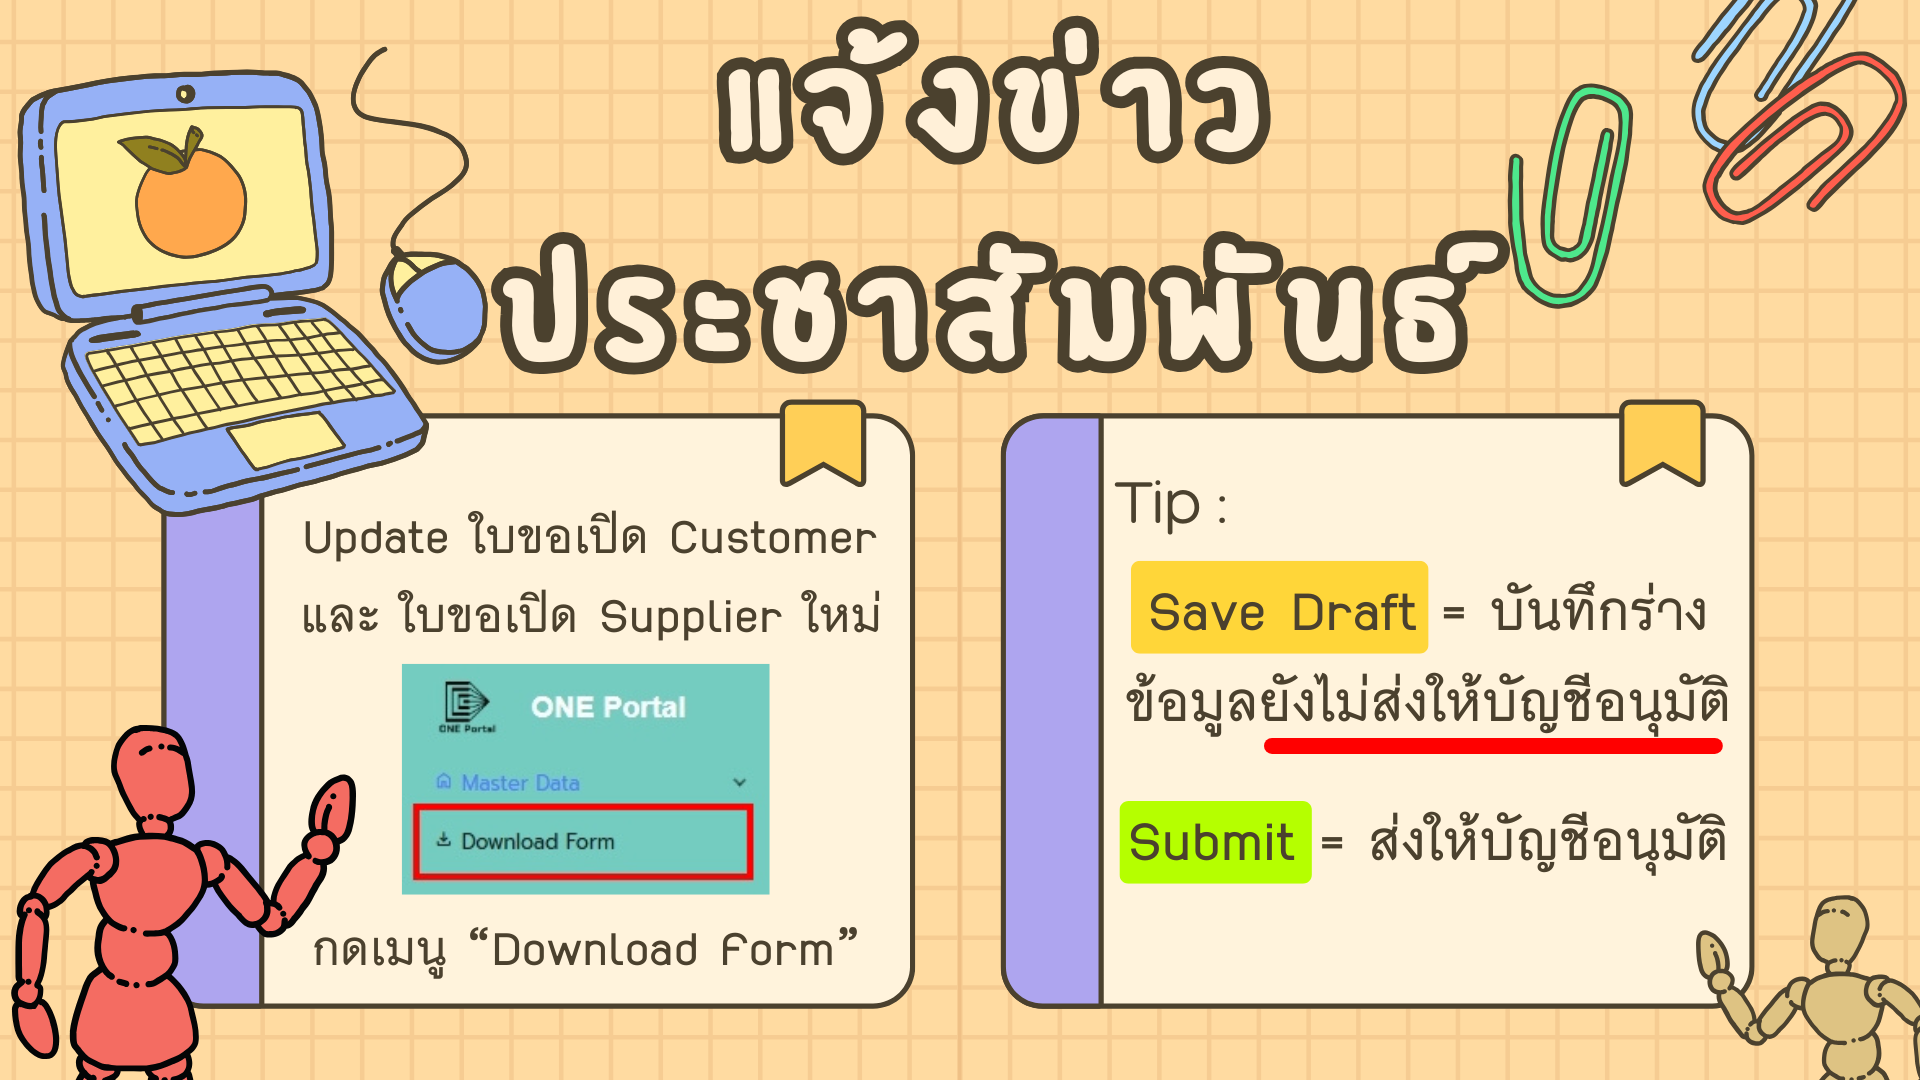
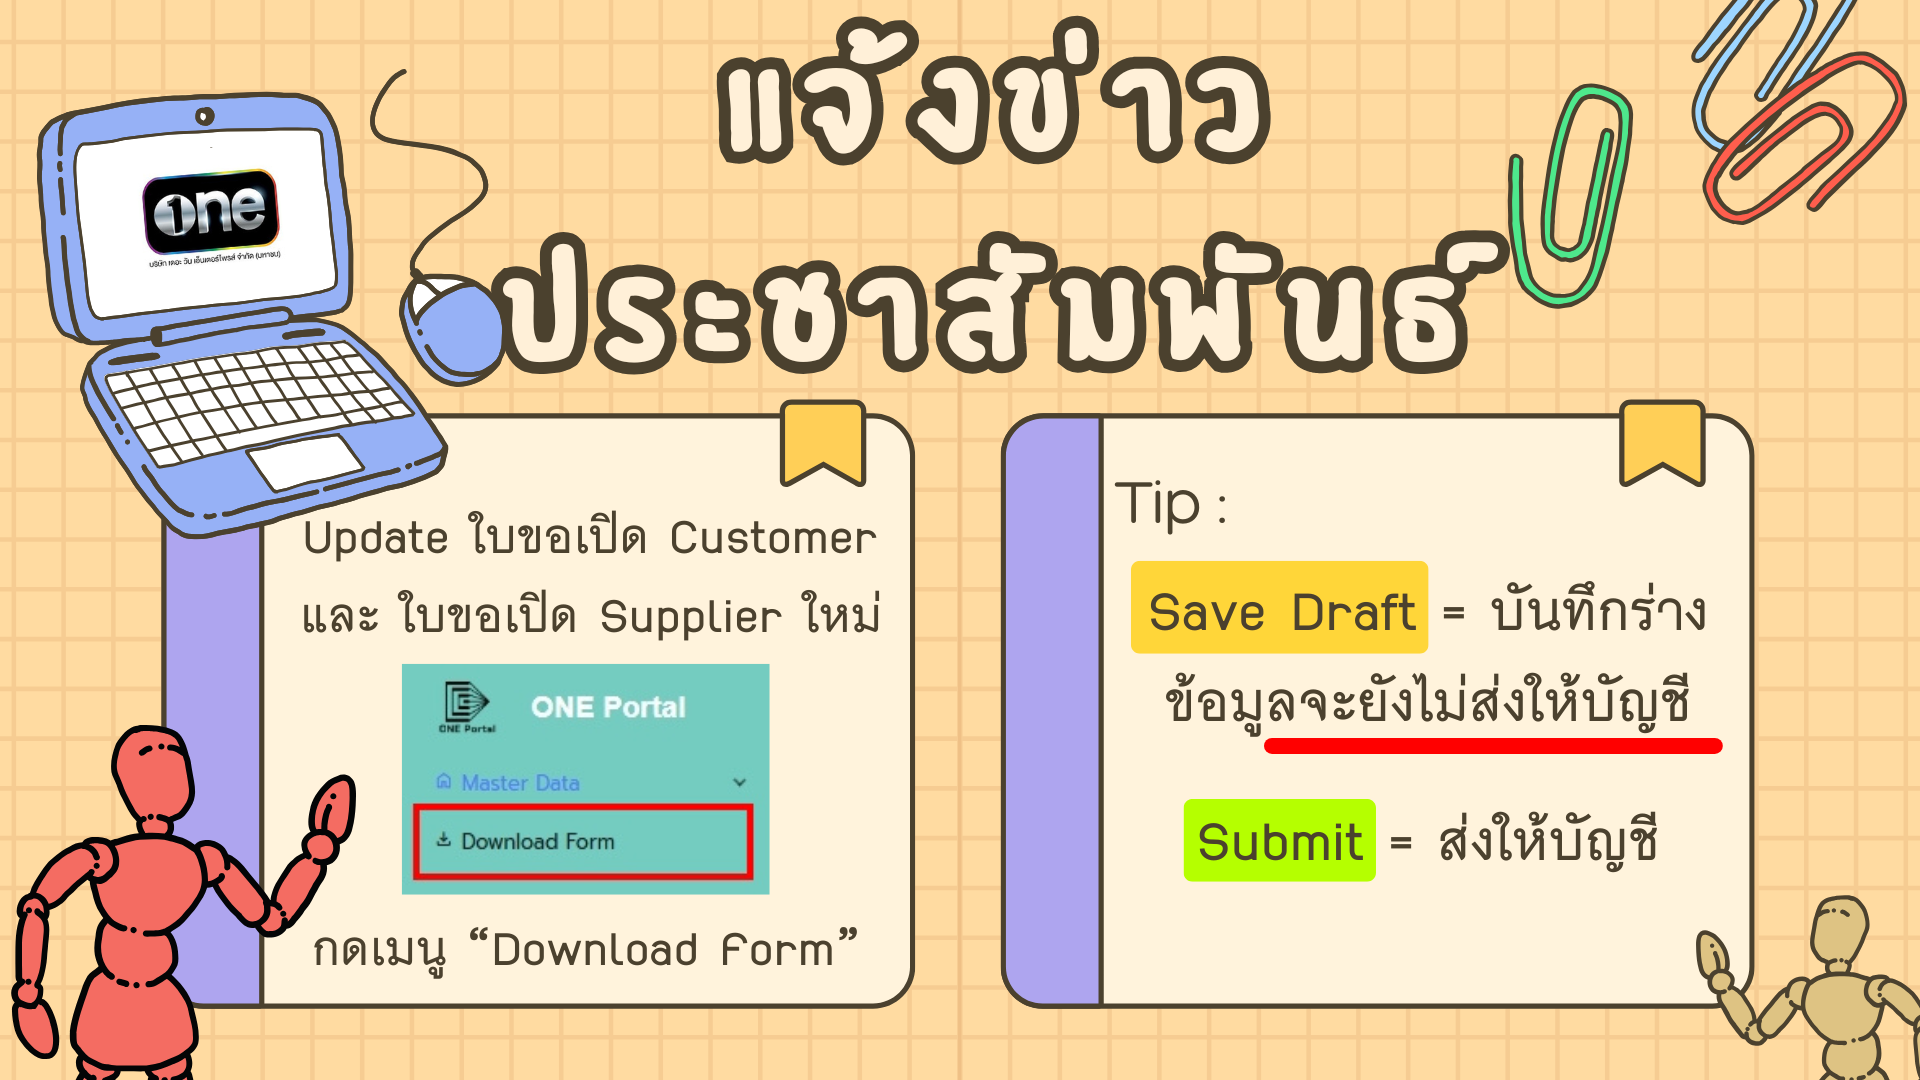
เพิ่มการเช็คแสดงเงื่อนไข

Changed region(s): [[0.0, 0.0611, 0.2812, 0.5194], [0.5625, 0.7333, 0.9062, 0.825], [0.5625, 0.6111, 0.9062, 0.7028]]

diff --git a/src/app/modules/supplier/pages/supplier-add/supplier-add.component.ts b/src/app/modules/supplier/pages/supplier-add/supplier-add.component.ts
@@ -216,6 +216,7 @@ export class SupplierAddComponent {
   telFN: any;
   isPrefixIsYou = false;
   isLoading: boolean = false;
+  statusforUpdate: string = '';
   constructor(private _location: Location, private fb: FormBuilder
     , private supplierService: SupplierService,
     private router: Router,
@@ -289,6 +290,10 @@ export class SupplierAddComponent {
     return new Promise((resolve) => {
       this.route.paramMap.subscribe(params => {
         const id = params.get('id');
+        this.route.queryParamMap.subscribe(params => {
+          this.statusforUpdate = params.get('status') ?? '';
+        });
+
         if (id) {
           this.suppilerId = +id;
           forkJoin({
@@ -1383,11 +1388,90 @@ export class SupplierAddComponent {
     this.supplierService.getLog(SupplierId).subscribe(
       (data) => {
         this.logs = data.map(log => {
+          let updatedStatus = log.status;
+
+          if (log.status === "Pending Approved By ACC" && log.rejectReason === '') {
+            if (log.roleId === 2 || log.roleId === 1) {
+              updatedStatus = "Submitted";
+            } else if (log.roleId === 3) {
+              updatedStatus = "Edit By ACC";
+            }
+          }
+          if (log.status === "Pending Approved By ACC" && log.rejectReason !== '') {
+            if (log.roleId === 3 ) {
+              updatedStatus = "Reject By ACC";
+            } else if (log.roleId === 4 || log.roleId === 1) {
+              updatedStatus = "Reject By FN";
+            }
+          }
+
           return {
             ...log,
-            time: this.formatDateTime(log.time)
+            time: this.formatDateTime(log.time),
+            status: updatedStatus
           };
         });
+        // ตรวจสอบว่า "Submitted" อยู่บนสุดและไม่มี status อื่น
+        if (this.logs.length > 0 && this.logs[0].status === "Submitted") {
+          const originalLog = data.find(log => log.status === "Pending Approved By ACC");
+          if (originalLog) {
+            this.logs.unshift({
+              status: "Pending Approved By ACC",
+              time: this.formatDateTime(originalLog.time) // ใช้เวลาเดิม
+            });
+          }
+        }
+        if (this.logs.length > 0 && this.logs[0].status === "Approved By ACC" && this.logs[0].payment === "Cheque") {
+          const originalLog = data.find(log => log.status === "Approved By ACC");
+          if (originalLog) {
+            this.logs.unshift({
+              status: this.statusforUpdate,
+            });
+          }
+        }
+        if (this.logs.length > 0 && this.logs[0].status === "Approved By ACC" && this.logs[0].payment === "Transfer") {
+          const originalLog = data.find(log => log.status === "Approved By ACC");
+          if (originalLog) {
+            this.logs.unshift({
+              status: this.statusforUpdate,
+              time: this.formatDateTime(originalLog.time) // ใช้เวลาเดิม
+            });
+          }
+        }
+        if (this.logs.length > 0 && this.logs[0].status === "Approved By FN" && this.logs[0].payment === "Transfer") {
+          const originalLog = data.find(log => log.status === "Approved By FN");
+          if (originalLog) {
+            this.logs.unshift({
+              status: this.statusforUpdate,
+            });
+          }
+        }
+        if (this.logs.length > 0 && this.logs[0].status === "Reject By FN" && this.logs[0].payment === "Transfer") {
+          const originalLog = data.find(log => log.status === "Pending Approved By ACC");
+          if (originalLog) {
+            this.logs.unshift({
+              status: this.statusforUpdate,
+            });
+          }
+        }
+        if (this.logs.length > 0 && this.logs[0].status === "Reject By ACC" && this.logs[0].payment === "Transfer") {
+          const originalLog = data.find(log => log.status === "Reject By ACC");
+          if (originalLog) {
+            this.logs.unshift({
+              status: 'Waiting For Admin Submit',
+              rejectReason: originalLog.rejectReason
+            });
+          }
+        }
+        if (this.logs.length > 0 && this.logs[0].status === "Reject By ACC" && this.logs[0].payment !== "Transfer") {
+          const originalLog = data.find(log => log.status === "Reject By ACC");
+          if (originalLog) {
+            this.logs.unshift({
+              status: 'Waiting For Admin Submit',
+              rejectReason: originalLog.rejectReason
+            });
+          }
+        }
       },
       (error) => {
         console.error('Error fetching logs', error);

diff --git a/src/app/modules/customer/pages/customer-add/customer-add.component.ts b/src/app/modules/customer/pages/customer-add/customer-add.component.ts
@@ -81,6 +81,7 @@ export class CustomerAddComponent implements OnInit {
   isCheckingDuplicate: boolean = false;
   listOfCompany: DataCompany[] = [];
   filteredDataompany: DataCompany[] = [];
+  statusforUpdate: string = '';
   constructor(private _location: Location, private fb: FormBuilder
     , private customerService: CustomerService,
     private router: Router,
@@ -185,6 +186,9 @@ export class CustomerAddComponent implements OnInit {
     return new Promise((resolve) => {
       this.route.paramMap.subscribe(async (params) => {
         const id = params.get('id');
+        this.route.queryParamMap.subscribe(params => {
+          this.statusforUpdate = params.get('status') ?? '';
+        });
         if (id) {
           this.customerId = +id;
           const { customerData, postCodes } = await forkJoin({
@@ -624,11 +628,53 @@ export class CustomerAddComponent implements OnInit {
     this.customerService.getLog(customerId).subscribe(
       (data) => {
         this.logs = data.map(log => {
+          let updatedStatus = log.status;
+
+          if (log.status === "Pending Approved By ACC" && log.rejectReason === '') {
+            if (log.roleId === 2 || log.roleId === 1) {
+              updatedStatus = "Submitted";
+            } else if (log.roleId === 3) {
+              updatedStatus = "Edit By ACC";
+            }
+          }
+          if (log.status === "Pending Approved By ACC" && log.rejectReason !== '') {
+            if (log.roleId === 3 || log.roleId === 1) {
+              updatedStatus = "Reject By ACC";
+            } 
+          }
+
           return {
             ...log,
-            time: this.formatDateTime(log.time)
+            time: this.formatDateTime(log.time),
+            status: updatedStatus
           };
         });
+        if (this.logs.length > 0 && this.logs[0].status === "Submitted") {
+          const originalLog = data.find(log => log.status === "Pending Approved By ACC");
+          if (originalLog) {
+            this.logs.unshift({
+              status: "Pending Approved By ACC",
+              time: this.formatDateTime(originalLog.time) // ใช้เวลาเดิม
+            });
+          }
+        }
+        if (this.logs.length > 0 && this.logs[0].status === "Approved By ACC") {
+          const originalLog = data.find(log => log.status === "Approved By ACC");
+          if (originalLog) {
+            this.logs.unshift({
+              status: this.statusforUpdate,
+            });
+          }
+        }
+        if (this.logs.length > 0 && this.logs[0].status === "Reject By ACC") {
+          const originalLog = data.find(log => log.status === "Reject By ACC");
+          if (originalLog) {
+            this.logs.unshift({
+              status: 'Waiting For Admin Submit',
+              rejectReason: originalLog.rejectReason
+            });
+          }
+        }
       },
       (error) => {
         console.error('Error fetching logs', error);

diff --git a/src/app/modules/supplier/pages/supplier/supplier.component.ts b/src/app/modules/supplier/pages/supplier/supplier.component.ts
@@ -89,7 +89,7 @@ export class SupplierComponent implements OnInit {
         this.isApproved = user.action.includes('approved');
         this.isUser = user.action.includes('user');
         this.isApprovedFN = user.action.includes('approvedFN');
-        if(this.isApprovedFN && this.isAdmin == false){
+        if (this.isApprovedFN && this.isAdmin == false) {
           this.isApproved = false;
         }
       }
@@ -116,7 +116,7 @@ export class SupplierComponent implements OnInit {
       });
     }
     else if (currentUser.user.role == 3) {
-      this.supplierService.findDataByUserCompanyACC(currentUser.user.company,currentUser.user.userId).subscribe({
+      this.supplierService.findDataByUserCompanyACC(currentUser.user.company, currentUser.user.userId).subscribe({
         next: (response: any) => {
           this.listOfData = response;
           this.selectedStatus = 'Pending Approved By ACC'
@@ -229,9 +229,10 @@ export class SupplierComponent implements OnInit {
   editSupplier(id: number): void {
     this._router.navigate(['/feature/supplier/edit', id]);
   }
-  viewSupplier(id: number): void {
-    this._router.navigate(['/feature/supplier/view', id]);
+  viewSupplier(id: number, status: string): void {
+    this._router.navigate(['/feature/supplier/view', id], { queryParams: { status: status } });
   }
+
 
   sortData(event: any): void {
     const sortField = event.key as keyof ISupplier;
@@ -251,9 +252,9 @@ export class SupplierComponent implements OnInit {
   getVisibleColumns(): any[] {
     return this.listOfColumn.filter(column => {
       if (!column.role) {
-        return true; 
+        return true;
       }
-      return column.role.some(role => (this as any)[role]); 
+      return column.role.some(role => (this as any)[role]);
     });
   }
 }

diff --git a/src/app/modules/customer/pages/customer/customer.component.html b/src/app/modules/customer/pages/customer/customer.component.html
@@ -61,7 +61,7 @@
         <td>{{ data.status }}</td>
         <td class="text-center">
           <button *ngIf="isApproved || isUser || isAdmin" nz-button nzType="primary" class="mr-1" nzShape="round"
-            (click)="viewCustomer(data.id)"><span nz-icon nzType="eye" nzTheme="outline"></span>View</button>
+            (click)="viewCustomer(data.id,data.status)"><span nz-icon nzType="eye" nzTheme="outline"></span>View</button>
           <button
             *ngIf="((isApproved || isAdmin) && ( data.status !== 'Pending Sync.' &&  data.status !== 'Success'))  || (isUser && (data.status === 'Draft' || data.status === 'Reject By ACC' || data.status === 'Reject By FN'))"
             nz-button nzType="primary" class="mr-1 button-yellow" nzShape="round" (click)="editCustomer(data.id)">

diff --git a/src/app/modules/supplier/pages/supplier/supplier.component.html b/src/app/modules/supplier/pages/supplier/supplier.component.html
@@ -54,7 +54,7 @@
         <td>{{ data.status }}</td>
         <td class="text-center">
           <button nz-button nzType="primary" class="mr-1" nzShape="round"
-            (click)="viewSupplier(data.id)"><span nz-icon nzType="eye" nzTheme="outline"></span>View</button>
+            (click)="viewSupplier(data.id,data.status)"><span nz-icon nzType="eye" nzTheme="outline"></span>View</button>
           <button
             *ngIf="(isApproved || isAdmin || (isUser && (data.status === 'Draft' || data.status === 'Reject By ACC' || data.status === 'Reject By FN'))) && data.status !== 'Success'"
             nz-button nzType="primary" class="mr-1 button-yellow" nzShape="round" (click)="editSupplier(data.id)">

diff --git a/src/app/modules/customer/pages/customer/customer.component.ts b/src/app/modules/customer/pages/customer/customer.component.ts
@@ -253,7 +253,7 @@ export class CustomerComponent implements OnInit {
   editCustomer(id: number): void {
     this._router.navigate(['/feature/customer/edit', id]);
   }
-  viewCustomer(id: number): void {
-    this._router.navigate(['/feature/customer/view', id]);
+  viewCustomer(id: number, status: string): void {
+    this._router.navigate(['/feature/customer/view', id], { queryParams: { status: status } });
   }
 }

diff --git a/src/app/modules/dashboard/pages/dashboard/dashboard.component.ts b/src/app/modules/dashboard/pages/dashboard/dashboard.component.ts
@@ -329,8 +329,7 @@ export class DashboardComponent {
           this.listOfDataOld = response
           this.filteredDataOld = this.listOfDataOld;
           this.displayDataOld = this.listOfDataOld;
-          console.log("this.displayDataOld : ", this.displayDataOld);
-          
+
           this.updateDisplayDataOld();
           this._cdr.markForCheck();
         },
